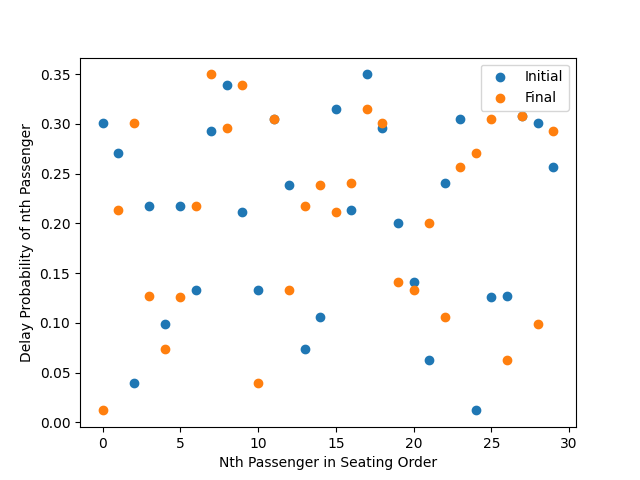
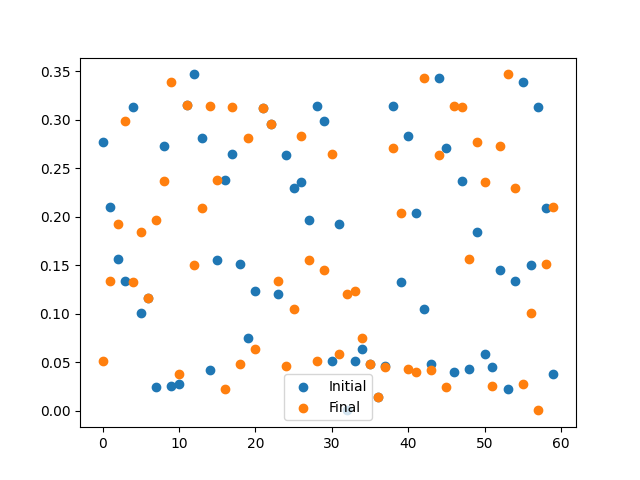
Back to original version - single iteration

diff --git a/genetic.py b/genetic.py
@@ -36,11 +36,14 @@ def genetic(generations, rows, cols, population_size, num_to_replace, num_to_mut
         for col in range(cols):
             passenger_master_list.append(Person(random.uniform(0, 0.35), (row, col)))
 
+    population = []
+
     # builds X simulations with same set of passengers, airplane dimensions, etc. but random orderings
     # (from citizen to citizen) to compare, battle, and let the best ordering win out!
     print("BUILDING INITIAL POPULATION...")
     for i in tqdm(range(population_size)):
         population.append(Citizen(rows, cols, deepcopy(passenger_master_list)))
+        # update over generations
 
     # EXTRACT THE INTIAL MINIMUM FROM THE RANDOMLY GENERATED POPULATION
     min_score = 9999
@@ -51,9 +54,7 @@ def genetic(generations, rows, cols, population_size, num_to_replace, num_to_mut
             min_score = citizen.score
             initial_min_score_citizen = citizen
 
-    # update over generations
     for generation in tqdm(range(generations)):
-
         print("Running Tournaments...")
         # perform tournaments - challenge each member of the population to "survive"
         population = tournament_selection(population, population_size - num_to_replace)
@@ -82,7 +83,7 @@ def genetic(generations, rows, cols, population_size, num_to_replace, num_to_mut
         print("GENERATION ", str(generation + 1), " SCORE: ", statistics.mean(scores))
         min_scores.append(min(scores))
         avg_scores.append(statistics.mean(scores))
-    
+        
     plt.ylabel("Generation Score")
     plt.xlabel("Generation")
     x = range(1, generations + 1)
@@ -101,14 +102,10 @@ def genetic(generations, rows, cols, population_size, num_to_replace, num_to_mut
 
     return (initial_min_score_citizen, final_min_score_citizen)
 
-
-# GENETIC FUNC ARGS: generations, rows, cols, pop_size, num to replace, num to mutate
-initial, final = genetic(350, 10, 3, 600, 20, 200)
+# GENETIC FUNC ARGS: generations, rows, cols, pop_size, num to replace, num to mutate, num iterations
+initial, final = genetic(20, 20, 3, 50, 5, 10)
 
 plt.clf()
-plt.xlabel("Nth Passenger in Seating Order")
-plt.ylabel("Row of Seat Assignment For nth Passenger")
-
 x = range(len(initial.specific_ordering))
 initial_row_data = []
 final_row_data = []
@@ -125,15 +122,16 @@ plt.savefig("RowGraph.png")
 plt.clf()
 plt.xlabel("Nth Passenger in Seating Order")
 plt.ylabel("Delay Probability of nth Passenger")
-initial_row_data = []
-final_row_data = []
+initial_delay_data = []
+final_delay_data = []
 
 for i in range(len(initial.specific_ordering)):
-    initial_row_data.append(initial.specific_ordering[i].delay_prob)
-    final_row_data.append(final.specific_ordering[i].delay_prob)
+    initial_delay_data.append(initial.specific_ordering[i].delay_prob)
+    final_delay_data.append(final.specific_ordering[i].delay_prob)
 
-plt.scatter(x, initial_row_data, label="Initial")
-plt.scatter(x, final_row_data, label="Final")
+plt.clf()
+plt.scatter(x, initial_delay_data, label="Initial")
+plt.scatter(x, final_delay_data, label="Final")
 plt.legend()
 plt.savefig("DelayGraph.png")
 

diff --git a/citizen.py b/citizen.py
@@ -20,7 +20,7 @@ class Citizen():
         self.num_cols = num_cols
 
         self.specific_ordering = deepcopy(passenger_set)
-        random.shuffle(self.specific_ordering)
+        # random.shuffle(self.specific_ordering)
         
         self.update_ordering(self.specific_ordering)
 
